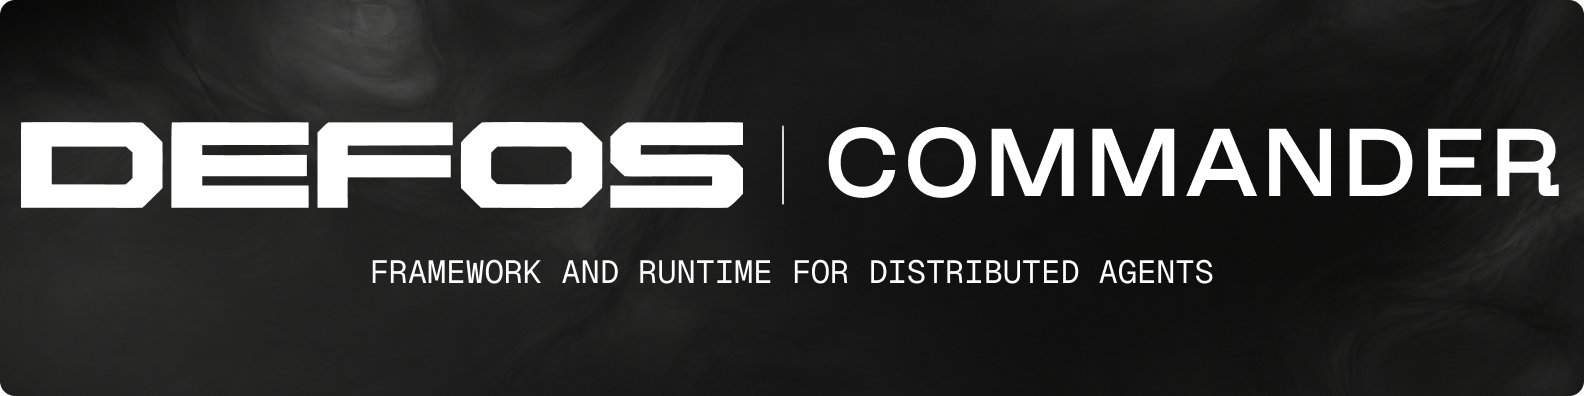
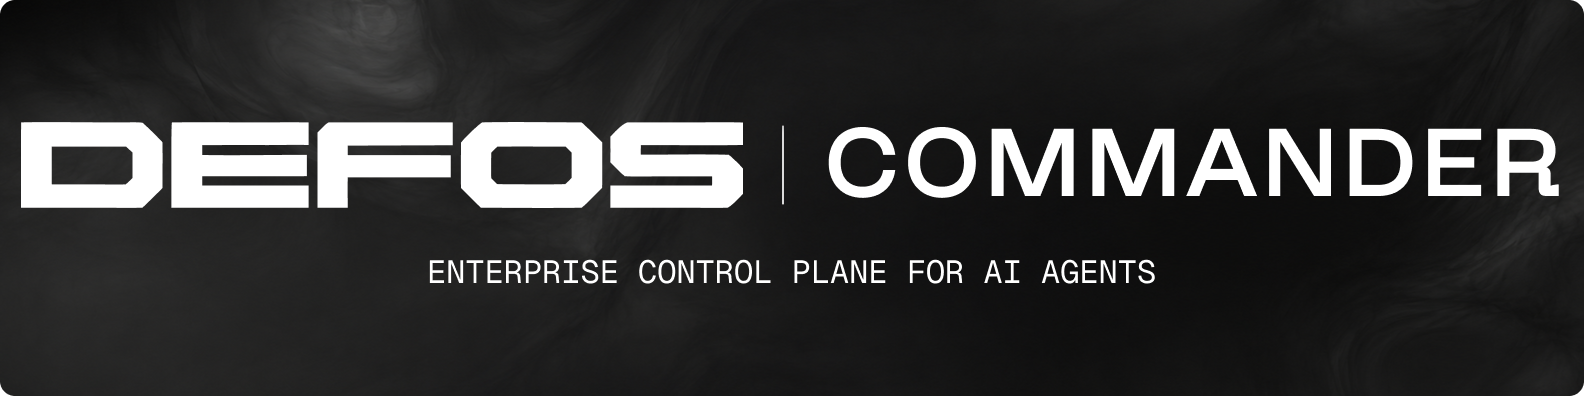
Update documentation

Changed region(s): [[0.2165, 0.6364, 0.7734, 0.7273]]

diff --git a/docs/overview.md b/docs/overview.md
@@ -1,7 +1,12 @@
 # Architecture overview
 
-**Commander decides what; the controller decides who; agents execute.**
-Commander is usually the model in Playground or another MCP client.
+DEFOS Commander is the enterprise control plane for AI agents. Build or connect
+agents across tools and infrastructure, coordinate complex missions, and retain
+execution history, results and artifacts for operational review.
+
+**A decision maker decides what; the controller decides who; agents execute.**
+The decision maker can be a model in Playground or another MCP client, or an
+operator using the API and Admin UI.
 
 See [11 practical use cases](use-cases.md) for missions across security,
 software delivery, business operations and long-running research at universities
@@ -11,8 +16,8 @@ and R&D centers.
 
 ```mermaid
 flowchart LR
-    User[You] <-->|Chat| Commander[Commander]
-    Commander <-->|MCP| Adapter[MCP adapter]
+    User[You] <-->|Chat| DecisionMaker[Decision maker]
+    DecisionMaker <-->|MCP| Adapter[MCP adapter]
     Adapter -->|Commands| Controller[Controller]
     Controller -->|Tasks| Agents[Agents]
     Agents -->|Results| Controller

diff --git a/README.md b/README.md
@@ -1,8 +1,10 @@
 <p align="center">
-  <img src="./docs/cover.png" alt="DEFOS Commander: framework and runtime for distributed agents" width="100%">
+  <img src="./docs/cover.png" alt="DEFOS Commander: the enterprise control plane for AI agents" width="100%">
 </p>
 
-**DEFOS Commander is a framework and runtime** for building distributed agents and orchestrating complex missions. Automate predictable steps, delegate decisions to AI or people, and track execution, results, and artifacts in one place.
+**DEFOS Commander is the enterprise control plane for AI agents.**
+
+Build, connect, orchestrate, and govern distributed AI agents across complex missions. Integrate existing agents without rebuilding them, automate predictable steps, delegate decisions to AI or people, and track execution, results, and artifacts in one place.
 
 Run missions and operations lasting months, orchestrating agents with different models and levels of intelligence.
 

diff --git a/framework/README.md b/framework/README.md
@@ -1,9 +1,11 @@
 # Commander framework
 
-Build workflows that coordinate specialist agents across tools and services.
-Typed action contracts, mission rules and operator decisions guide execution;
-saved outcomes and artifacts support review. Apps provide host configuration;
-[providers](../providers/README.md) supply messaging and storage.
+Build and extend Commander's agent control plane for complex business workflows.
+Connect existing tools and agents through typed actions, or implement new agents
+with the same contracts. Mission rules and model or operator decisions guide
+long-running work; saved outcomes and artifacts support operational review.
+Apps provide host configuration; [providers](../providers/README.md) supply
+messaging and storage.
 
 ## Quick start
 

diff --git a/docs/use-cases.md b/docs/use-cases.md
@@ -1,9 +1,9 @@
 # Commander use cases
 
-Commander (`defos-ai/commander`) coordinates agents to automate complex processes
-across engineering, security, business systems and research. A mission defines
-the goal and rules; agents connect it to the tools and data needed to carry out
-the work.
+Commander (`defos-ai/commander`) gives teams a control plane for coordinating AI
+agents across engineering, security, business systems and research. A mission
+defines objectives, execution rules and completion authority; agents connect
+existing tools and systems, while saved results and artifacts support review.
 
 Use these examples to design missions with suitable agents and integrations.
 Install or implement the required actions for your systems before running them.

diff --git a/framework/domain/README.md b/framework/domain/README.md
@@ -1,8 +1,10 @@
 # Domain models
 
-Use this reference to choose a model and find its consumers before changing a
-contract. Links lead to the definitions and store interfaces; field lists and
-allowed status values stay in source. For workflow examples, read
+Use shared models to keep mission policy, execution evidence and operational
+review consistent across agent integrations. This reference helps you choose a
+model and find its consumers before changing a contract. Links lead to definitions
+and store interfaces; field lists and allowed status values stay in source.
+For workflow examples, read
 [missions and rules](../../docs/abstractions.md).
 
 A mission describes reusable work. An operation runs that mission, tasks assign

diff --git a/framework/secrets/README.md b/framework/secrets/README.md
@@ -1,8 +1,9 @@
 # Secret management
 
-Manage service credentials across agent workflows with encrypted storage,
-action requirements and tracked delivery. One name identifies one shared value
-across the Commander deployment, independently of agents and operations. Users manage it
+Manage integration credentials centrally for agents working across business
+systems, with encrypted storage, action requirements and tracked delivery.
+One name identifies one shared value across the Commander deployment,
+independently of agents and operations. Users manage it
 through [Admin UI](../../apps/admin/ui/README.md) or the authenticated
 [HTTP API](../../apps/adapters/api/README.md#secrets); values stay out of chat.
 

diff --git a/apps/adapters/mcp/README.md b/apps/adapters/mcp/README.md
@@ -1,8 +1,9 @@
 # Commander MCP adapter
 
-Connect AI clients to Commander missions through the Model Context Protocol.
-Submit operation commands to the controller and inspect saved progress, results
-and artifacts.
+Connect AI clients and continuously running agent hosts to Commander's control
+plane through the Model Context Protocol. Coordinate complex missions under saved
+rules, hand decisions to operators when needed, and inspect progress, results and
+artifacts across distributed agent work.
 
 Follow the [MCP setup and workflow guide](https://github.com/defos-ai/commander/blob/main/apps/adapters/README.md#quick-start)
 for authentication, client configuration and tool usage.

diff --git a/framework/comms/README.md b/framework/comms/README.md
@@ -1,8 +1,9 @@
 # Messaging
 
-Connect adapters, the controller and agents through a shared messaging contract.
-Commands and events carry work between services; inbox modes and explicit
-delivery settlement give hosts control over failures and duplicate deliveries.
+Connect independently hosted adapters, the controller and agents through a shared
+messaging contract. Commands and events carry work across services; inbox modes
+and explicit delivery settlement give hosts control over failures and duplicate
+deliveries as operational workflows cross deployment boundaries.
 Use `comms.Bus` with the
 [FS or RabbitMQ provider](../../providers/README.md) in your host factory.
 

diff --git a/providers/README.md b/providers/README.md
@@ -1,8 +1,9 @@
 # Providers
 
-Configure the infrastructure behind multi-agent operations: messaging connects
-Commander hosts, database stores retain workflow state and execution history, and
-file storage holds artifact bytes and reports. Choose each backend independently:
+Connect Commander's control plane to your organization's messaging, database and
+object-storage services. Messaging coordinates distributed agent hosts, database
+stores retain mission history for review and recovery, and file storage holds
+artifact bytes and reports. Choose each backend independently:
 
 | Host setting | Provider | Connection |
 | --- | --- | --- |

diff --git a/framework/comms/messages/README.md b/framework/comms/messages/README.md
@@ -1,8 +1,8 @@
 # Message contracts
 
-Keep clients, controllers and agents aligned as operations cross process
-boundaries. Typed commands and events preserve correlation IDs and work context
-so execution messages can be associated with their operations and tasks.
+Keep clients, controllers and agent integrations aligned as operations cross
+service boundaries. Typed commands and events preserve correlation IDs and work
+context so teams can trace execution messages to their operations and tasks.
 Use the typed [`comms/clients`](../clients/) publishers and
 [`routing.go`](routing.go) when constructing destinations.
 

diff --git a/providers/s3/README.md b/providers/s3/README.md
@@ -1,8 +1,9 @@
 # S3 provider
 
-Store the artifact files and reports produced by multi-agent operations in
-Amazon S3 or MinIO, independently of agent runtimes. Artifact metadata stays in
-the database. [Compose](../../compose.yaml) configures MinIO and creates its bucket.
+Keep mission artifacts and final reports in your organization's Amazon S3 or
+MinIO storage for operational review and reuse across agent hosts. File bytes
+remain independent of agent runtimes; accepted artifact metadata stays in the
+database. [Compose](../../compose.yaml) configures MinIO and creates its bucket.
 
 ## Quick start
 

diff --git a/providers/mongo/README.md b/providers/mongo/README.md
@@ -1,9 +1,9 @@
 # MongoDB provider
 
-Retain the state and execution history of long-running multi-agent operations in
-MongoDB. Operations, checkpoints, progress logs and encrypted secrets live
-independently of running hosts; artifact files remain in the separate
-`STORAGE_URL` backend.
+Retain the state and execution history of complex, long-running missions across
+distributed agent hosts. MongoDB keeps operations, checkpoints, progress logs and
+encrypted secrets available for operational review and restart recovery;
+artifact files remain in the separate `STORAGE_URL` backend.
 
 ## Quick start
 
